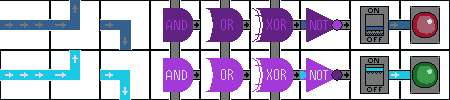
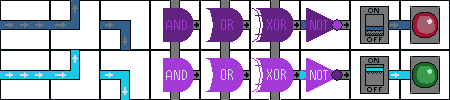
tweak image positioning for gate elements

diff --git a/css/styles.css b/css/styles.css
@@ -8,13 +8,13 @@
 
 .gate {
   line-height: 50px;
-  background-color: transparent;
+  background-color: grey;
   text-align: center;
   min-width: 50px;
   width: 50px;
   height: 50px;
   margin: 1%;
-  border: 1px solid red;
+  border: 1px solid black;
 }
 
 .disabled {
@@ -60,6 +60,92 @@
   flex: 23%;
 }
 
-.on {
-  border: 1px dotted yellow;
+.Wire {
+  background-image: url("../img/gates.png");
+  background-position: 0px 0px;
+}
+
+.uWire {
+  background-image: url("../img/gates.png");
+  background-position: -50px 0px;
+}
+
+.dWire {
+  background-image: url("../img/gates.png");
+  background-position: -100px 0px;
+}
+
+.AND {
+  background-image: url("../img/gates.png");
+  background-position: -150px 0px;
+}
+
+.OR {
+  background-image: url("../img/gates.png");
+  background-position: -200px 0px;
+}
+
+.XOR {
+  background-image: url("../img/gates.png");
+  background-position: -250px 0px;
+}
+
+.NOT {
+  background-image: url("../img/gates.png");
+  background-position: -300px 0px;
+}
+
+.Input {
+  background-image: url("../img/gates.png");
+  background-position: -350px 0px;
+}
+
+.Output {
+  background-image: url("../img/gates.png");
+  background-position: -400px 0px;
+}
+
+.WireOn {
+  background-image: url("../img/gates.png");
+  background-position: 0px 50px;
+}
+
+.uWireOn {
+  background-image: url("../img/gates.png");
+  background-position: -50px 50px;
+}
+
+.dWireOn {
+  background-image: url("../img/gates.png");
+  background-position: -100px 50px;
+}
+
+.ANDOn {
+  background-image: url("../img/gates.png");
+  background-position: -150px 50px;
+}
+
+.OROn {
+  background-image: url("../img/gates.png");
+  background-position: -200px 50px;
+}
+
+.XOROn {
+  background-image: url("../img/gates.png");
+  background-position: -250px 50px;
+}
+
+.NOTOn {
+  background-image: url("../img/gates.png");
+  background-position: -300px 50px;
+}
+
+.InputOn {
+  background-image: url("../img/gates.png");
+  background-position: -350px 50px;
+}
+
+.OutputOn {
+  background-image: url("../img/gates.png");
+  background-position: -400px 50px;
 }

diff --git a/js/scripts.js b/js/scripts.js
@@ -153,16 +153,9 @@ function loadGates() {
   var gatesToLoad = "";
   gatesArray.forEach(function(elem) {
     gatesToLoad +=
-      "<div id='" + elem.id + "' class='gate " + elem.type + "'>" + gateSymbols(elem.id) + "</div>";
+      "<div id='" + elem.id + "' class='gate " + elem.type + "'></div>";
   })
   $('#gate-container').html(gatesToLoad);
-}
-
-function gateSymbols(elemId) {
-  if (elemId === "uWire1") {return "┘"}
-  else if (elemId === "dWire1") {return "┐"}
-  else if (elemId === "wire1" || elemId === "wire2" || elemId === "wire3") {return "─"}
-  else {return elemId}
 }
 
 function positionIO(inputLocations, outputLocations) {
@@ -285,9 +278,9 @@ function checkState() {
     var gate = gatesArray[findArrayId($(this).attr('id'))];
     gate.GetInput();
     if (gate.state) {
-      $(this).addClass("on");
+      $(this).addClass(gate.type+"On");
     } else {
-      $(this).removeClass("on");
+      $(this).removeClass(gate.type+"On");
     }
   })
 

diff --git a/index.html b/index.html
@@ -17,6 +17,29 @@
     <hr>
     <button id="createGates">Create Gates</button>
     <button id="reset">Reset</button>
+  <hr>
+    <div style="display: flex">
+      <div class="grid Wire"></div>
+      <div class="grid uWire"></div>
+      <div class="grid dWire"></div>
+      <div class="grid AND"></div>
+      <div class="grid OR"></div>
+      <div class="grid NOT"></div>
+      <div class="grid XOR"></div>
+      <div class="grid Input"></div>
+      <div class="grid Output"></div>
+    </div>
+    <div style="display: flex">
+      <div class="grid WireOn"></div>
+      <div class="grid uWireOn"></div>
+      <div class="grid dWireOn"></div>
+      <div class="grid ANDOn"></div>
+      <div class="grid OROn"></div>
+      <div class="grid NOTOn"></div>
+      <div class="grid XOROn"></div>
+      <div class="grid InputOn"></div>
+      <div class="grid OutputOn"></div>
+    </div>
     <div id="debug-panel">
 
     </div>
